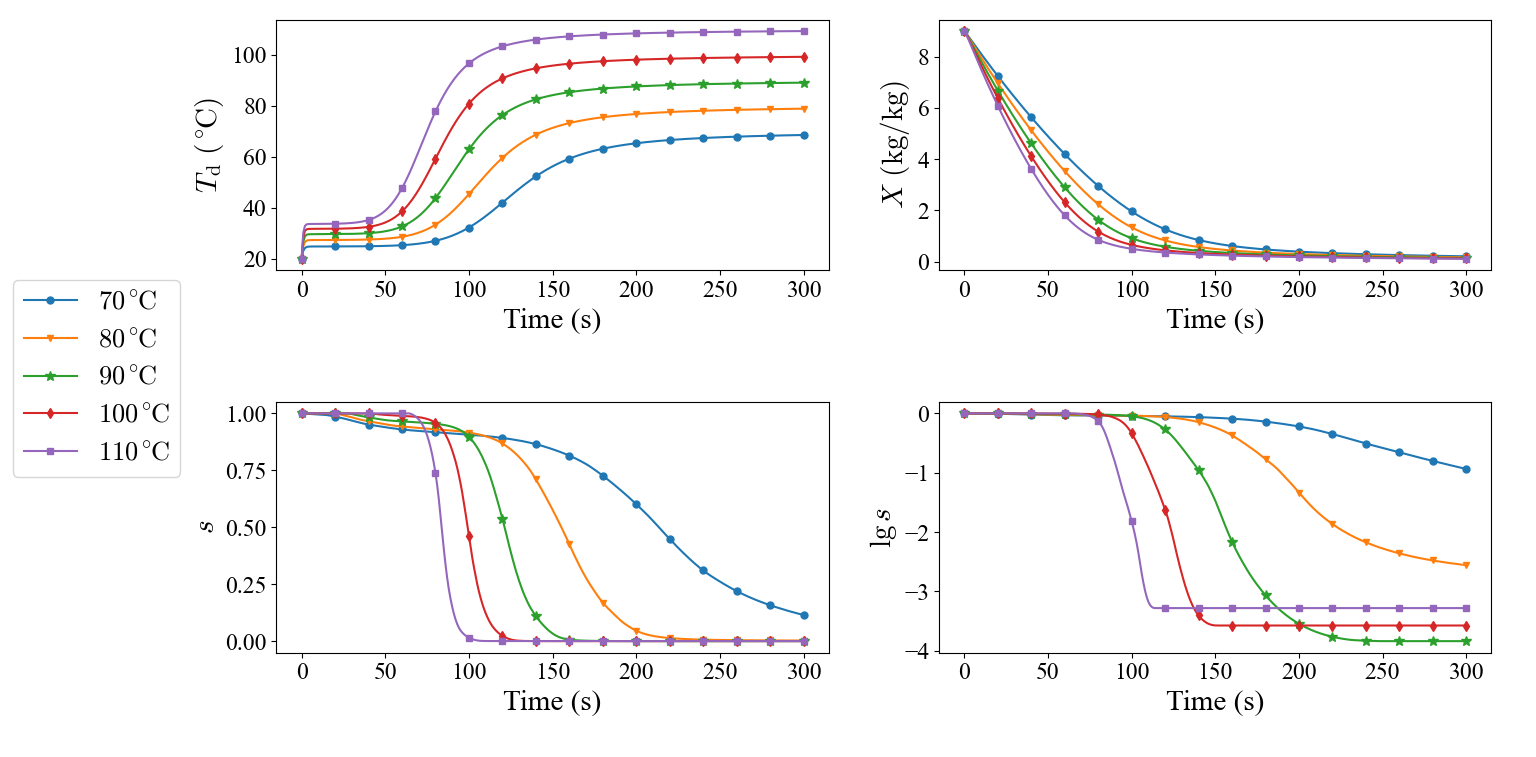
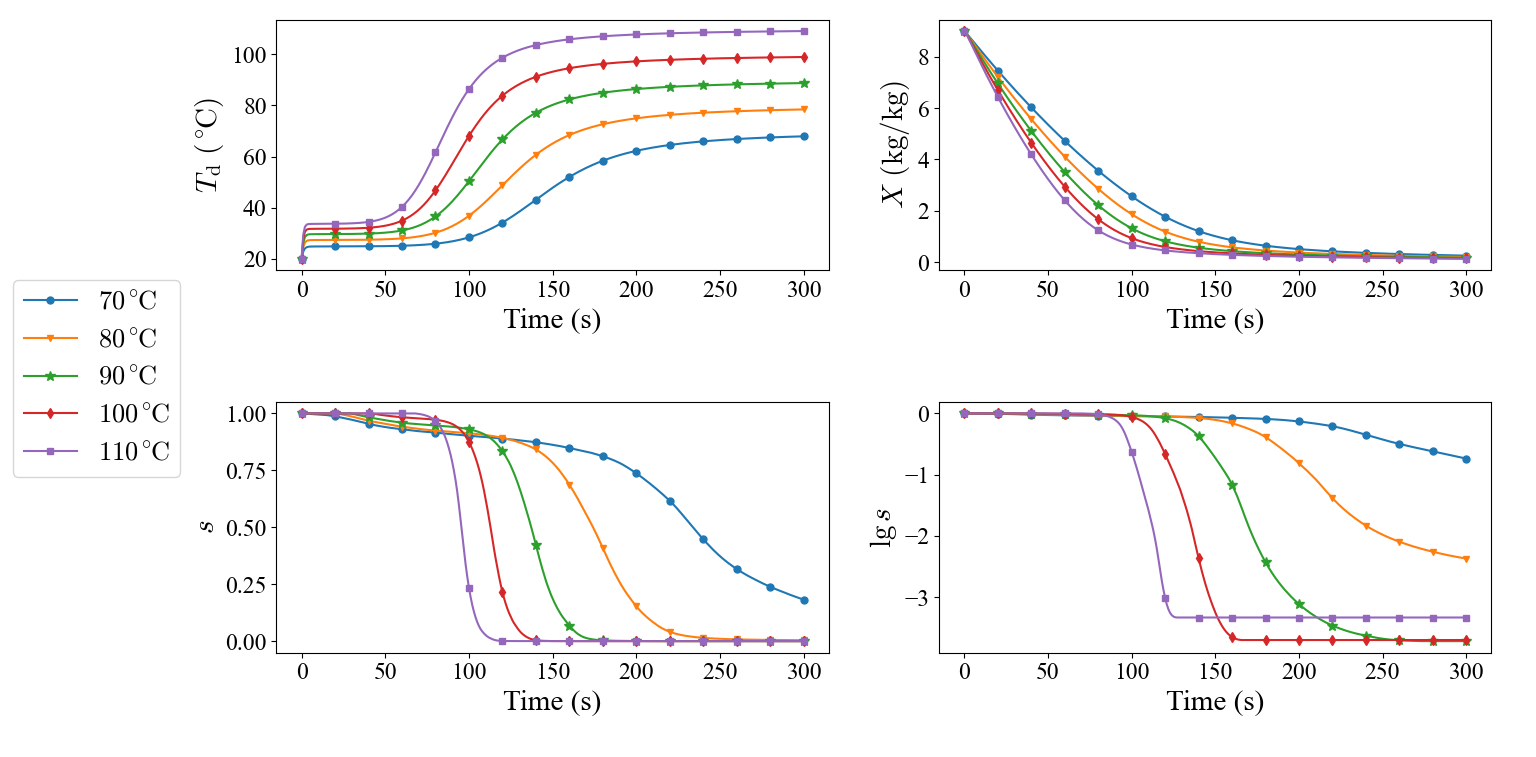
redraw drying condition

diff --git a/probiotic/vary_inp_test/vary_rsm.py b/probiotic/vary_inp_test/vary_rsm.py
@@ -3,28 +3,28 @@ from pred_fun import vary_pred_plot
 import pickle
 
 ta_base = 90
-va_base = 0.7
+va_base = 0.75
 ws_base = 0.1
-vd_base = 1.5e-9
+vd_base = 2e-9
 with open('../pickle_data/sns-ana-time-0d1.pkl', 'wb') as pkl_time_avg:
     time_avg_rate = {}
     #  vary Ta
     ta_list = [70, 80, 90, 100, 110]
-    # fig_Ta, ax_ta = \
-    #     vary_pred_plot('Ta', {
-    #         'Ta': list(map(lambda x: x + 273.15, ta_list)),
-    #         'va': va_base,
-    #         'ws': ws_base,
-    #         'vd': vd_base,
-    #         'dur': [300]
-    #     }, labels=list(map(lambda x: r'$' + str(
-    #         x) + r'\mathrm{^\circ\hspace{-0.25}C}$', ta_list
-    #                        )), clip_increase=False)
+    fig_Ta, ax_ta = \
+        vary_pred_plot('Ta', {
+            'Ta': list(map(lambda x: x + 273.15, ta_list)),
+            'va': va_base,
+            'ws': ws_base,
+            'vd': vd_base,
+            'dur': [300]
+        }, labels=list(map(lambda x: r'$' + str(
+            x) + r'\mathrm{^\circ\hspace{-0.25}C}$', ta_list
+                           )), clip_increase=False)
     # fig_Ta.savefig('../figures/vary_inp/Ta.png', transparent=True)
     # fig_Ta_rate.savefig('../figures/vary_inp/Ta-rate.png', transparent=True)
 
-    # vary va
-    va_list = [0.45, 0.6, 0.75, 0.9, 1.05]
+    # # vary va
+    # va_list = [0.45, 0.6, 0.75, 0.9, 1.05]
     # fig_va, ax_va = \
     #     vary_pred_plot('va', {
     #         'Ta': ta_base + 273.15,
@@ -38,29 +38,29 @@ with open('../pickle_data/sns-ana-time-0d1.pkl', 'wb') as pkl_time_avg:
     # fig_va.savefig('../figures/vary_inp/va.png')
     # fig_va_rate.savefig('../figures/vary_inp/va-rate.png', transparent=True)
 
-    # # vary ws
-    ws_list = [0.055, 0.06, 0.07, 0.08, 0.1, 0.15, 0.2]
-    fig_ws, ax_ws = \
-        vary_pred_plot('ws', {
-            'Ta': ta_base + 273.15,
-            'va': va_base,
-            'ws': ws_list,
-            'vd': vd_base,
-            'dur': [300]
-        }, labels=['5 wt%', '5.5 wt%', '6 wt%', '7 wt%', '8 wt%',
-                   '10 wt%', '15 wt%', '20 wt%', '25 wt%'
-                   ], human_itv=True, clip_increase=False)
-    plt.subplots_adjust(left=0.165)
-    fig_ws.savefig('../figures/vary_inp/ws.png', transparent=True)
+    # vary ws
+    # ws_list = [0.055, 0.06, 0.07, 0.08, 0.1, 0.15, 0.2]
+    # fig_ws, ax_ws = \
+    #     vary_pred_plot('ws', {
+    #         'Ta': ta_base + 273.15,
+    #         'va': va_base,
+    #         'ws': ws_list,
+    #         'vd': vd_base,
+    #         'dur': [300]
+    #     }, labels=['5 wt%', '5.5 wt%', '6 wt%', '7 wt%', '8 wt%',
+    #                '10 wt%', '15 wt%', '20 wt%', '25 wt%'
+    #                ], human_itv=True, clip_increase=False)
+    # plt.subplots_adjust(left=0.165)
+    # fig_ws.savefig('../figures/vary_inp/ws.png', transparent=True)
     # fig_ws_rate.savefig('../figures/vary_inp/ws-rate.png', transparent=True)
     # enlarge _s
     # plt.subplots_adjust(wspace=0.8, right=0.64)
-    # ax_ws[1, 1].set_xlim([214.8, 253.5])
-    # ax_ws[1, 1].set_ylim([-3.86, -3.7])
-    # ax_ws[0, 0].set_xlim([125.82, 156.25])
-    # ax_ws[0, 0].set_ylim([77.5, 86.])
-    # ax_ws[0, 1].set_xlim([125.82, 156.25])
-    # ax_ws[0, 1].set_ylim([0.3, 0.56])
+    # ax_ws[1, 1].set_xlim([231, 289])
+    # ax_ws[1, 1].set_ylim([-3.8, -3.35])
+    # ax_ws[0, 0].set_xlim([155, 180])
+    # ax_ws[0, 0].set_ylim([81.22, 84.87])
+    # ax_ws[0, 1].set_xlim([155, 180])
+    # ax_ws[0, 1].set_ylim([0.33, 0.46])
     # fig_ws.savefig('../figures/vary_inp/wrsm-enlarge.png')
 
     # # vary vd

diff --git a/probiotic/vary_inp_test/pred_fun.py b/probiotic/vary_inp_test/pred_fun.py
@@ -119,8 +119,8 @@ def vary_pred_plot(
         #          markersize=markersize, markevery=marker_sep)
         # ax0.plot(t, np.log10(pred.flatten()), label=label, lw=2, marker=marker,
         #          markersize=markersize * 1.5, markevery=marker_sep)  # use in paper structure
-    handles, labels = ax[0, 0].get_legend_handles_labels()
-    fig.legend(handles, labels, loc='center left', prop=font_legend)
+    # handles, labels = ax[0, 0].get_legend_handles_labels()
+    # fig.legend(handles, labels, loc='center left', prop=font_legend)
     # ax1.legend(handles, labels, loc='best', prop=font_legend)
     # ax[0, 0].legend(loc='best', prop=font_legend)
     # ax[0, 1].legend(loc='best', prop=font_legend)
